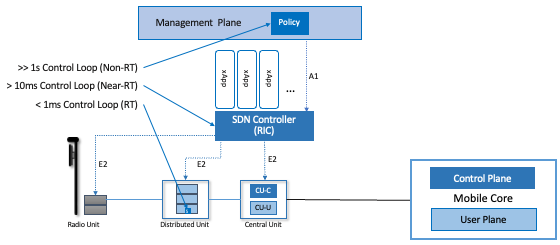
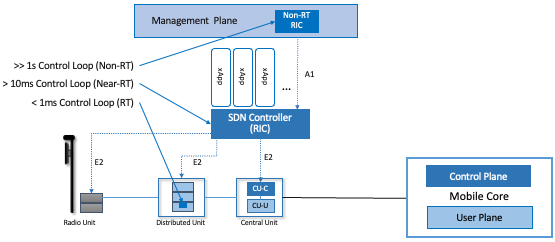
terminology cleanup

diff --git a/ran.rst b/ran.rst
@@ -407,26 +407,19 @@ SDK currently makes the gRPC-based API available to xApps.
 4.5 Control Loops
 -----------------
 
-.. The way to tie everything together is to show the full
-   top-to-bottom picture with the three control loops.
-
-   What's RRM?
-
 We conclude this description of RAN internals by re-visiting the
 sequence of steps involved in disaggregation, which as the previous
 three sections reveal, is being pursued in multiple tiers. In doing
 so, we tie up several loose ends, and focus attention on the resulting
 three control loops.
 
-In the first tier of disaggregation, 3GPP standards provide multiple
-options of how horizontal RAN splits can take place. Horizontal
-disaggregation basically splits the RAN pipeline shown in
-:numref:`Figure %s <fig-pipeline>` into the independently operating
-components shown in :numref:`Figure %s <fig-disagg1>` illustrates
-horizontal disaggregation of the RAN from a single base station into
-three distinct components: CU, DU and RU. The O-RAN Alliance has
-selected specific disaggregation options from 3GPP and is developing
-open interfaces between these components.
+In the first tier of disaggregation, 3GPP defines multiple options for
+how the RAN can be split and distributed, with the pipeline shown in
+:numref:`Figure %s <fig-pipeline>` disaggregated into the
+independently operating CU, DU, and RU components shown in
+:numref:`Figure %s <fig-disagg1>`. The O-RAN Alliance has selected
+specific disaggregation options from 3GPP and is developing open
+interfaces between these components.
 
 .. _fig-disagg1:
 .. figure:: figures/sdn/Slide7.png 
@@ -435,13 +428,13 @@ open interfaces between these components.
        
     First tier of RAN disaggregation: Split RAN.
 
-The second tier of disaggregation is vertical, focusing on
-control/user plane separation (CUPS) of the CU, and resulting in CU-U
-and CU-C shown in :numref:`Figure %s <fig-disagg2>`. The control
-plane in question is the 3GPP control plane, where the CU-U realizes a
-pipeline for user traffic and the CU-C focuses on control message
-signaling between Mobile Core and the disaggregated RAN components (as
-well as to the UE).
+The second tier of disaggregation focuses on the control/user plane
+separation (CUPS) of the CU, resulting in the CU-U and CU-C shown in
+:numref:`Figure %s <fig-disagg2>`. The control plane in question is
+the 3GPP control plane, where the CU-U realizes a pipeline for user
+traffic and the CU-C focuses on control message signaling between
+Mobile Core and the disaggregated RAN components (as well as to the
+UE).
 
 .. _fig-disagg2:
 .. figure:: figures/sdn/Slide8.png 
@@ -450,20 +443,22 @@ well as to the UE).
        
     Second tier of RAN disaggregation: CUPS. 
 
-The third tier follows the SDN paradigm by carrying vertical
-disaggregation one step further. It does this by separating most of
-RAN control (RRC functions) from the disaggregated RAN components, and
+The third tier follows the SDN paradigm by separating most of RAN
+control (RRC functions) from the disaggregated RAN components, and
 logically centralizing them as applications running on an SDN
 Controller, which corresponds to the Near-RT RIC shown previously in
 :numref:`Figures %s <fig-rrc-split>` and :numref:`%s
-<fig-ran-controller>`. This SDN-based vertical disaggregation is
-repeated here in :numref:`Figure %s <fig-ctl_loops>`.  The figure also
-shows the additional O-RAN prescribed interfaces, which we already
-discussed in the previous section.
+<fig-ran-controller>`. This SDN-based disaggregation is repeated here
+in :numref:`Figure %s <fig-ctl_loops>`.  The figure also shows the
+O-RAN prescribed interfaces A1 and E2 that we already discussed in the
+previous section. (Note that all the edges in :numref:`Figures %s
+<fig-disagg1>` and :numref:`%s <fig-disagg2>` also correspond to
+3GPP-defined interfaces, but we have not identified them by name
+because their details are outside the scope of this discussion.)
     
 .. _fig-ctl_loops:
 .. figure:: figures/sdn/Slide9.png 
-    :width: 700px 
+    :width: 800px 
     :align: center
        
     Third tier of RAN disaggregation: SDN.
@@ -478,14 +473,16 @@ stage of the RAN pipeline. The two outer control loops have rough time
 bounds of >>1sec and >10ms, respectively, and as we saw in Chapter 2,
 the real-time control loop is assumed to be <1ms.
  
-This raises the question of how specific functionality is distributed  
-between the Non-RT RIC, Near-RT RIC, and DU. Starting with the second  
-pair (i.e., the two inner loops), it is important to recognize that  
-not all RRM functions can be centralized. After horizontal and  
-vertical CUPS disaggregation, the RRM functions are split between CU-C  
-and DU. For this reason, the SDN-based vertical disaggregation focuses  
-on centralizing CU-C-side RRM functions in the Near-RT RIC. In
-addition to RRM control, this includes all the SON applications.
+This raises the question of how specific functionality is distributed
+between the Non-RT RIC, Near-RT RIC, and DU. Starting with the second
+pair (i.e., the two inner loops), it is the case that not all RRC
+functions can be centralized; some need to be implemented in the
+DU. The SDN-based disaggregation then focuses on those that can be
+centralizing, with the Near-RT RIC supporting the RRC applications and
+the SON applications mentioned in Section 4.3.
+
+.. What's an example of an RRC function that needs to be distributed
+   to the DU?
 
 Turning to the outer two control loops, the Near RT-RIC opens the
 possibility of introducing policy-based RAN control, whereby
